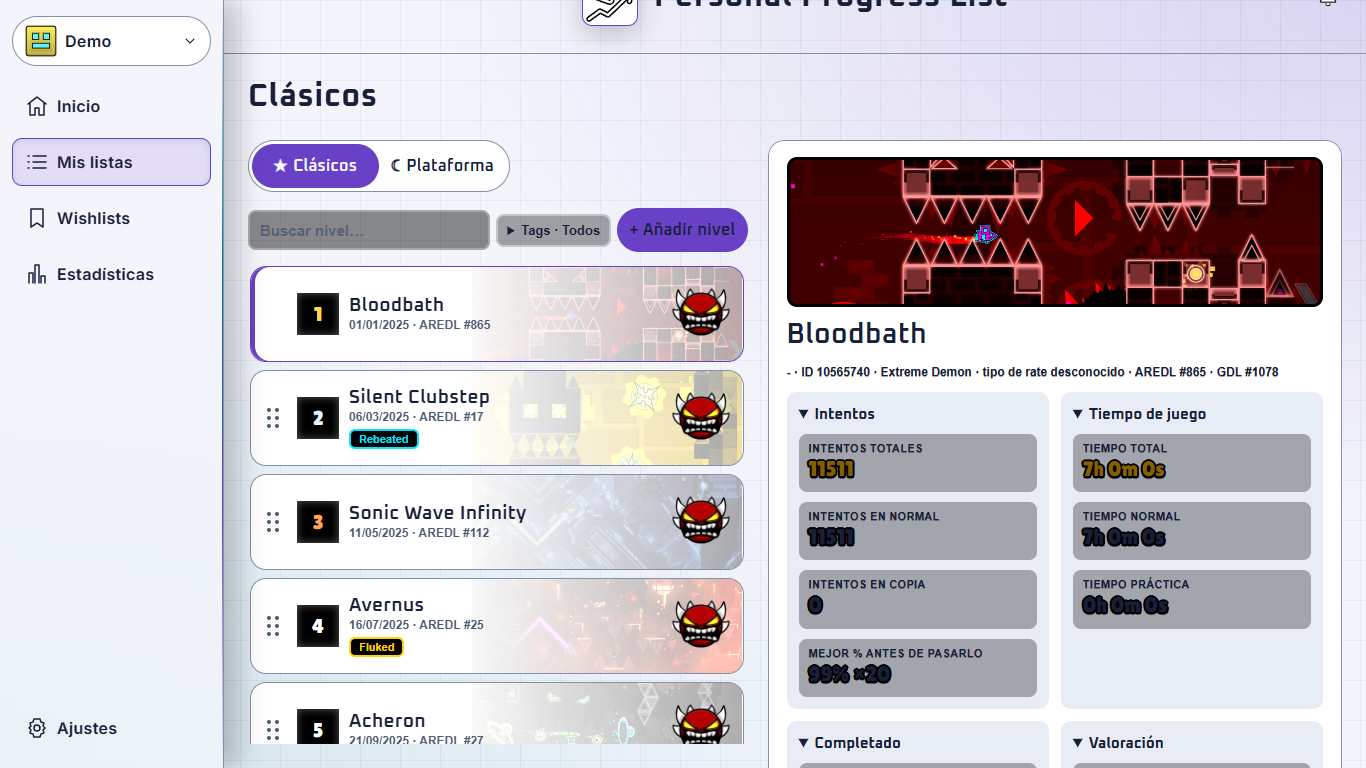
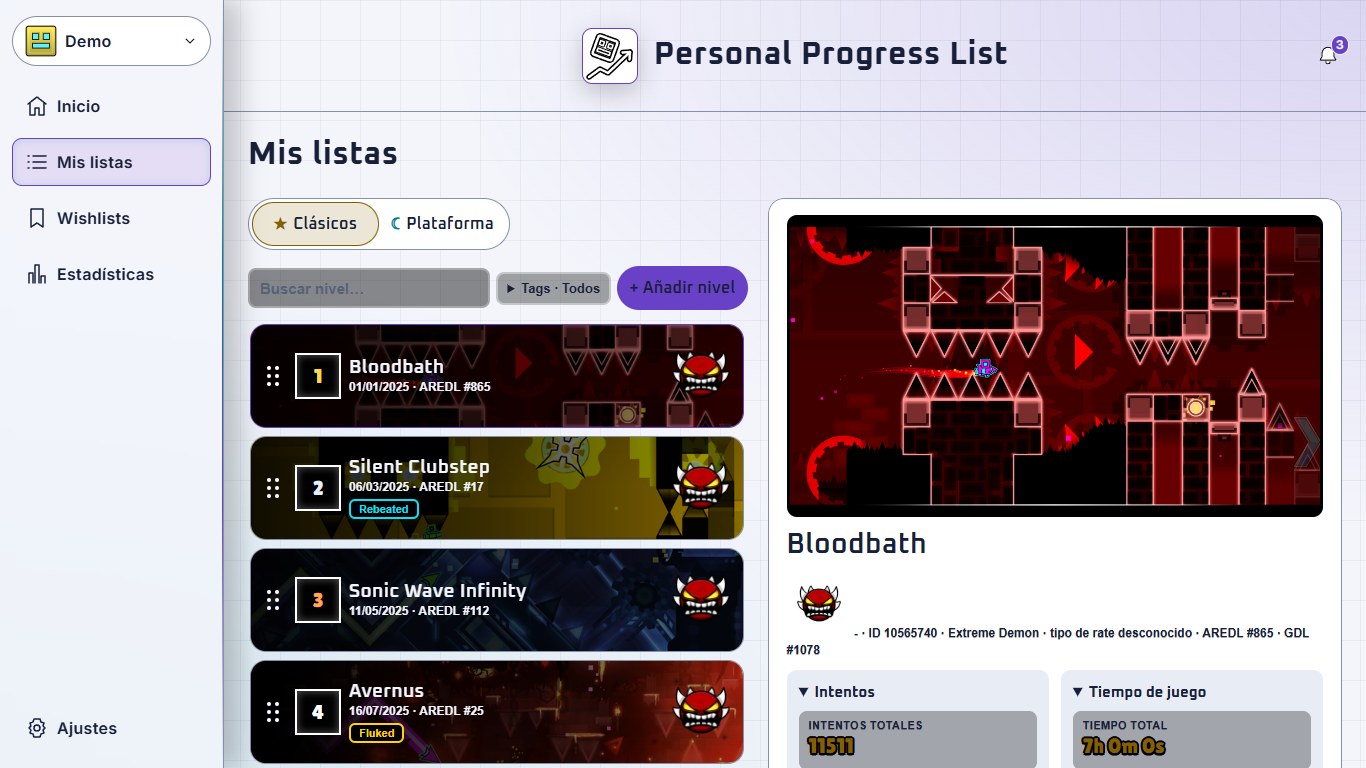
Align My Lists with sections 8 and 9 of the parent specification

diff --git a/css/styles.css b/css/styles.css
@@ -872,6 +872,7 @@ dialog.modal::backdrop {
 
 /* Shared list controls and the selected level's detail pane. */
 .mode-switch {
+  --mode-ink: var(--color-mode-classic);
   position: relative;
   isolation: isolate;
   display: inline-grid;
@@ -903,7 +904,8 @@ dialog.modal::backdrop {
   inset: 3px auto 3px 3px;
   width: calc(50% - 3px);
   border-radius: inherit;
-  background: var(--color-accent);
+  background: color-mix(in srgb, var(--mode-ink) 16%, var(--color-surface));
+  box-shadow: inset 0 0 0 1px var(--mode-ink);
   transition: transform var(--motion-selection) var(--motion-easing);
 }
 
@@ -911,8 +913,15 @@ dialog.modal::backdrop {
   transform: translateX(100%);
 }
 
+.mode-switch:has([data-v=platform][aria-pressed=true]) {
+  --mode-ink: var(--color-mode-platform);
+}
+
+.mode-switch [data-v=classic] span { color: var(--color-mode-classic); }
+.mode-switch [data-v=platform] span { color: var(--color-mode-platform); }
+
 .mode-switch button[aria-pressed=true] {
-  color: var(--color-bg);
+  color: var(--color-text);
   opacity: 1;
 }
 
@@ -932,8 +941,24 @@ dialog.modal::backdrop {
   overflow-wrap: anywhere;
 }
 
+.list-surface .lv:has(.th) {
+  color: var(--color-card-text);
+  --meta: var(--color-card-text);
+}
+
+.list-surface .lv > .th::before {
+  background: linear-gradient(90deg, rgb(0 0 0 / 92%), rgb(0 0 0 / 72%) 48%, rgb(0 0 0 / 36%)), var(--th) center / cover no-repeat;
+  opacity: 1;
+  mask-image: none;
+}
+
+.list-surface .rcol .hero {
+  height: auto;
+  aspect-ratio: 16 / 9;
+}
+
 .split .lv {
-  height: 96px;
+  height: 104px;
 }
 
 .split .lv .info {
@@ -1182,6 +1207,8 @@ dialog.modal::backdrop {
 
 /* Phones: the detail replaces the list instead of sitting under it */
 @media (max-width: 900px) {
+  .split .lv { height: 96px; }
+
   .lh #q {
     flex-basis: 100%;
   }

diff --git a/js/components/levels.js b/js/components/levels.js
@@ -96,7 +96,7 @@ function detail(level) {
         section('sh', `${(level.tags || []).map(name => tagFilterChip(name, true)).join('')}${recorded(level.notes) ? `<p style="white-space:pre-wrap">${escapeHtml(level.notes)}</p>` : ''}`),
         section('dh', histogram)
     ].join('');
-    return `<div class=box>${thumbnail ? `<div class=hero style="background-image:url('${thumbnail}')"></div>` : ''}<h2>${escapeHtml(level.name)}</h2><p class=by>${escapeHtml(orDash(level.creator))} · ID ${escapeHtml(orDash(level.levelId))} · ${escapeHtml(difficultyLabel(level))} · ${aredlLabel(level)}${level.kind == 'platform' ? '' : ` · GDL ${escapeHtml(level.gdl == null ? '—' : '#' + level.gdl)}`}</p>
+    return `<div class=box>${thumbnail ? `<div class=hero style="background-image:url('${thumbnail}')"></div>` : ''}<h2>${escapeHtml(level.name)}</h2><p class=by>${difficultyFace(level)} ${escapeHtml(orDash(level.creator))} · ID ${escapeHtml(orDash(level.levelId))} · ${escapeHtml(difficultyLabel(level))} · ${aredlLabel(level)}${level.kind == 'platform' ? '' : ` · GDL ${escapeHtml(level.gdl == null ? '—' : '#' + level.gdl)}`}</p>
 <div${sections ? ' class=dgrid' : ''}>${sections || `<p class=by>${t('noAdditionalDetails')}</p>`}
 </div><p class=dgb>${canEdit() ? `<button class=blue data-act=edit data-id="${escapeHtml(level.id)}">${ICONS.edit} ${t('edit')}</button>` : ''} <button data-act=lvclose>${t('close')}</button></p></div>`;
 }

diff --git a/js/components/shell.js b/js/components/shell.js
@@ -67,7 +67,7 @@ function shellPageTitle() {
     if (ui.tab == 'home')
         return '';
     const wish = ui.tab == 'wish' && currentWishlist();
-    const title = wish ? wish.name : t(ui.tab);
+    const title = isListTab() ? t(canEdit() ? 'lists' : 'publicLists') : wish ? wish.name : t(ui.tab);
     const primary = !canEdit() ? '' : ui.tab == 'wish' && !wish ? `<button data-act=wnew>${ICONS.plus}${t('palWish')}</button>` : '';
     return `<div class=page-title>${wish ? `<button data-act=tab data-v=wish aria-label="${t('back2')}">${ICONS.back}</button>` : ''}<h2>${escapeHtml(title)}</h2>${primary}</div>`;
 }

diff --git a/tests/home.test.js b/tests/home.test.js
@@ -164,7 +164,7 @@ test('every screen uses the shared shell, active destination and page actions', 
         if (tab == 'home') assert.equal(title, '');
         else {
             assert.match(title, /class=page-title/);
-            assert.ok(title.includes(app(`t('${tab}')`)));
+            assert.ok(title.includes(app(`t('${['classic', 'platform'].includes(tab) ? 'lists' : tab}')`)));
         }
         if (['classic', 'platform'].includes(tab)) assert.doesNotMatch(title, /data-act=add/);
         if (tab == 'wish') assert.match(title, /data-act=wnew/);
